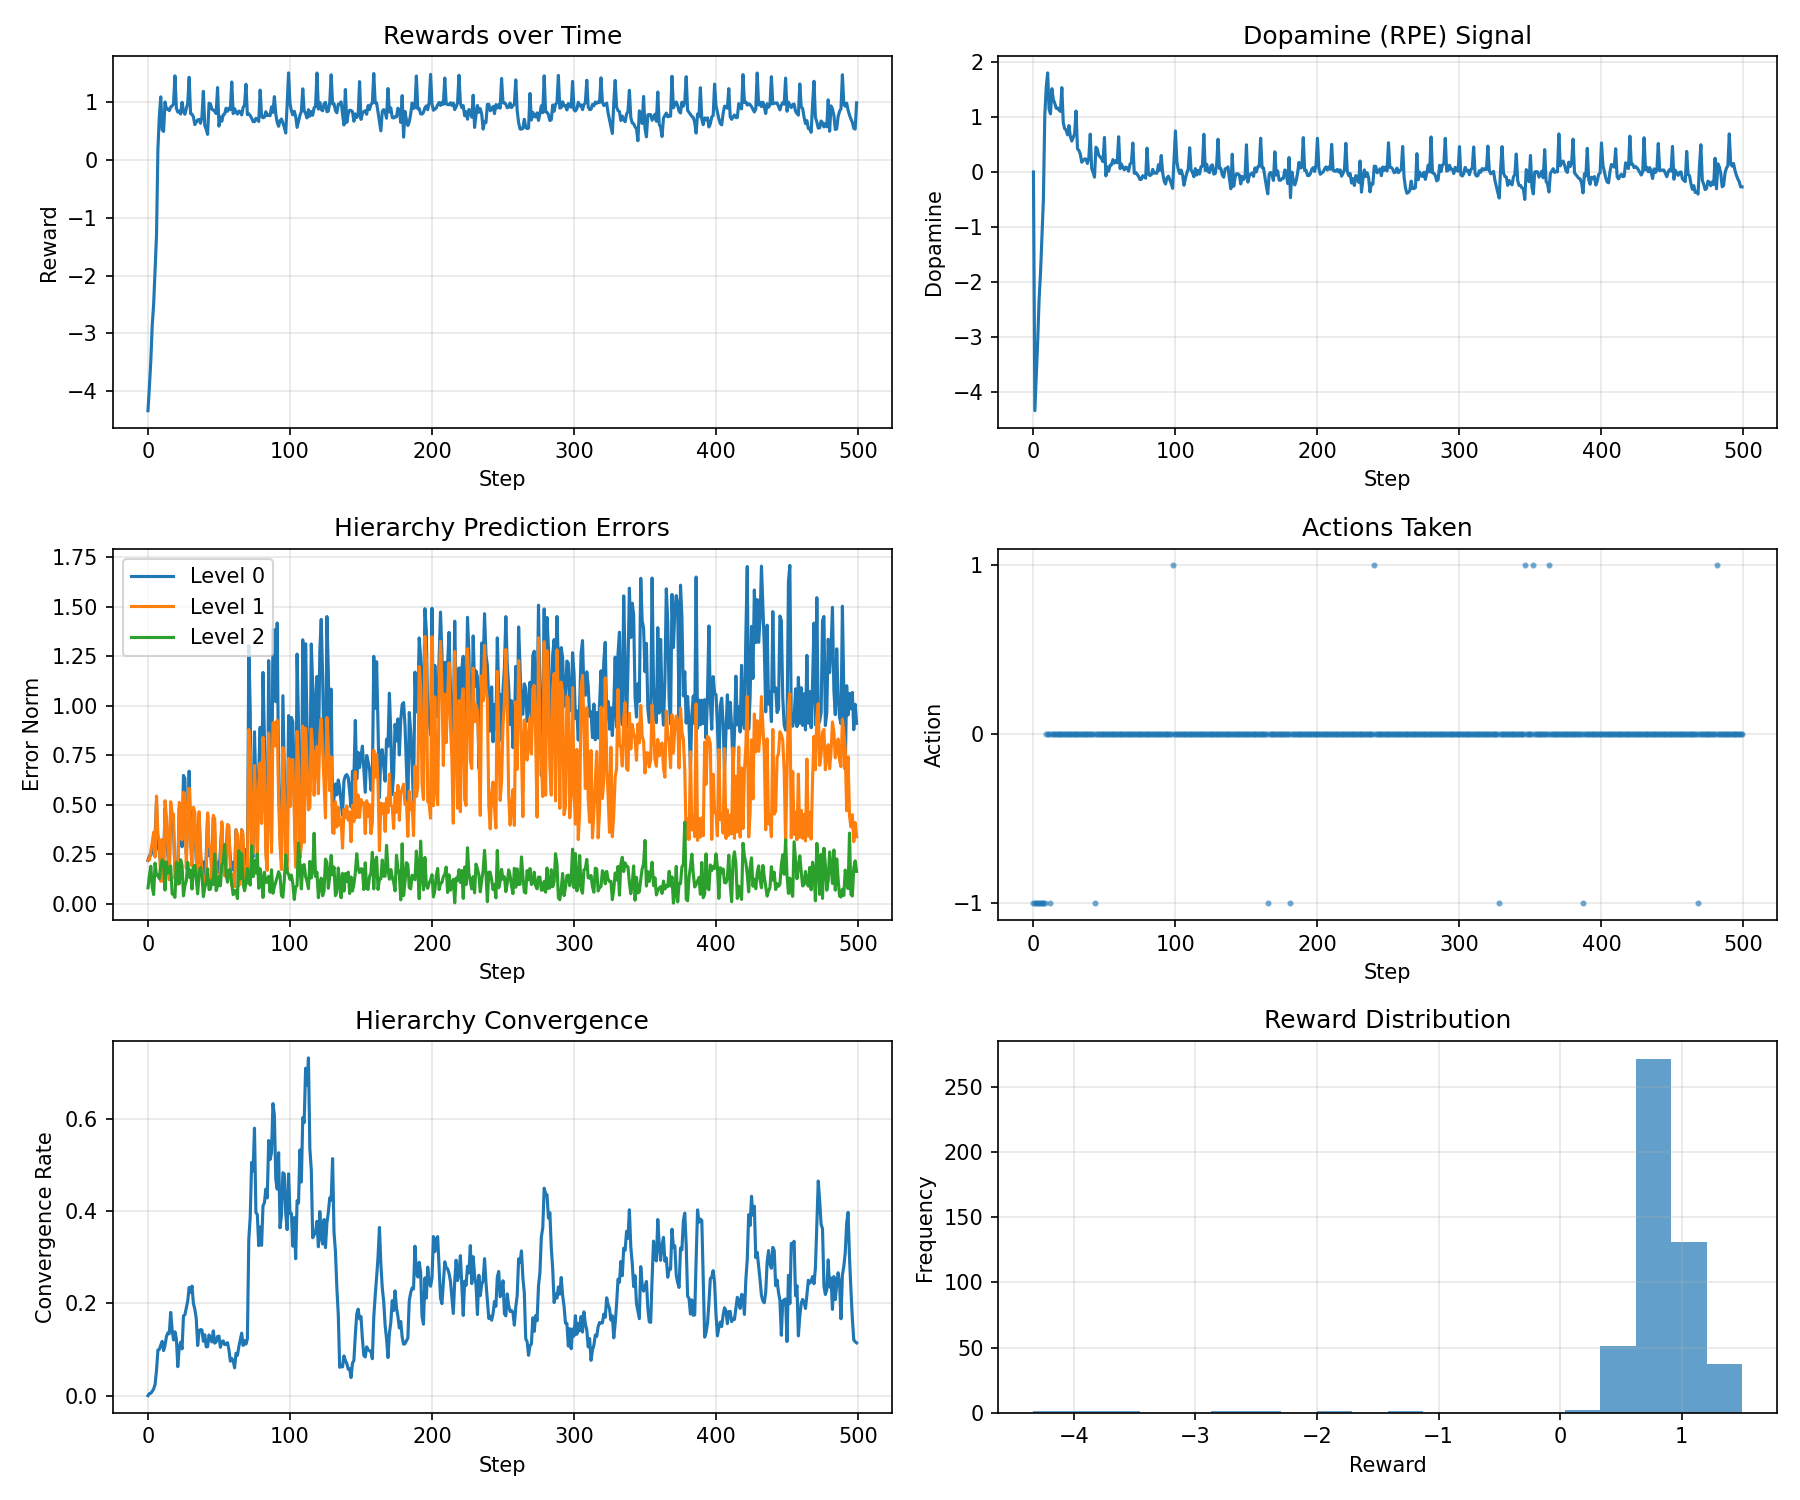
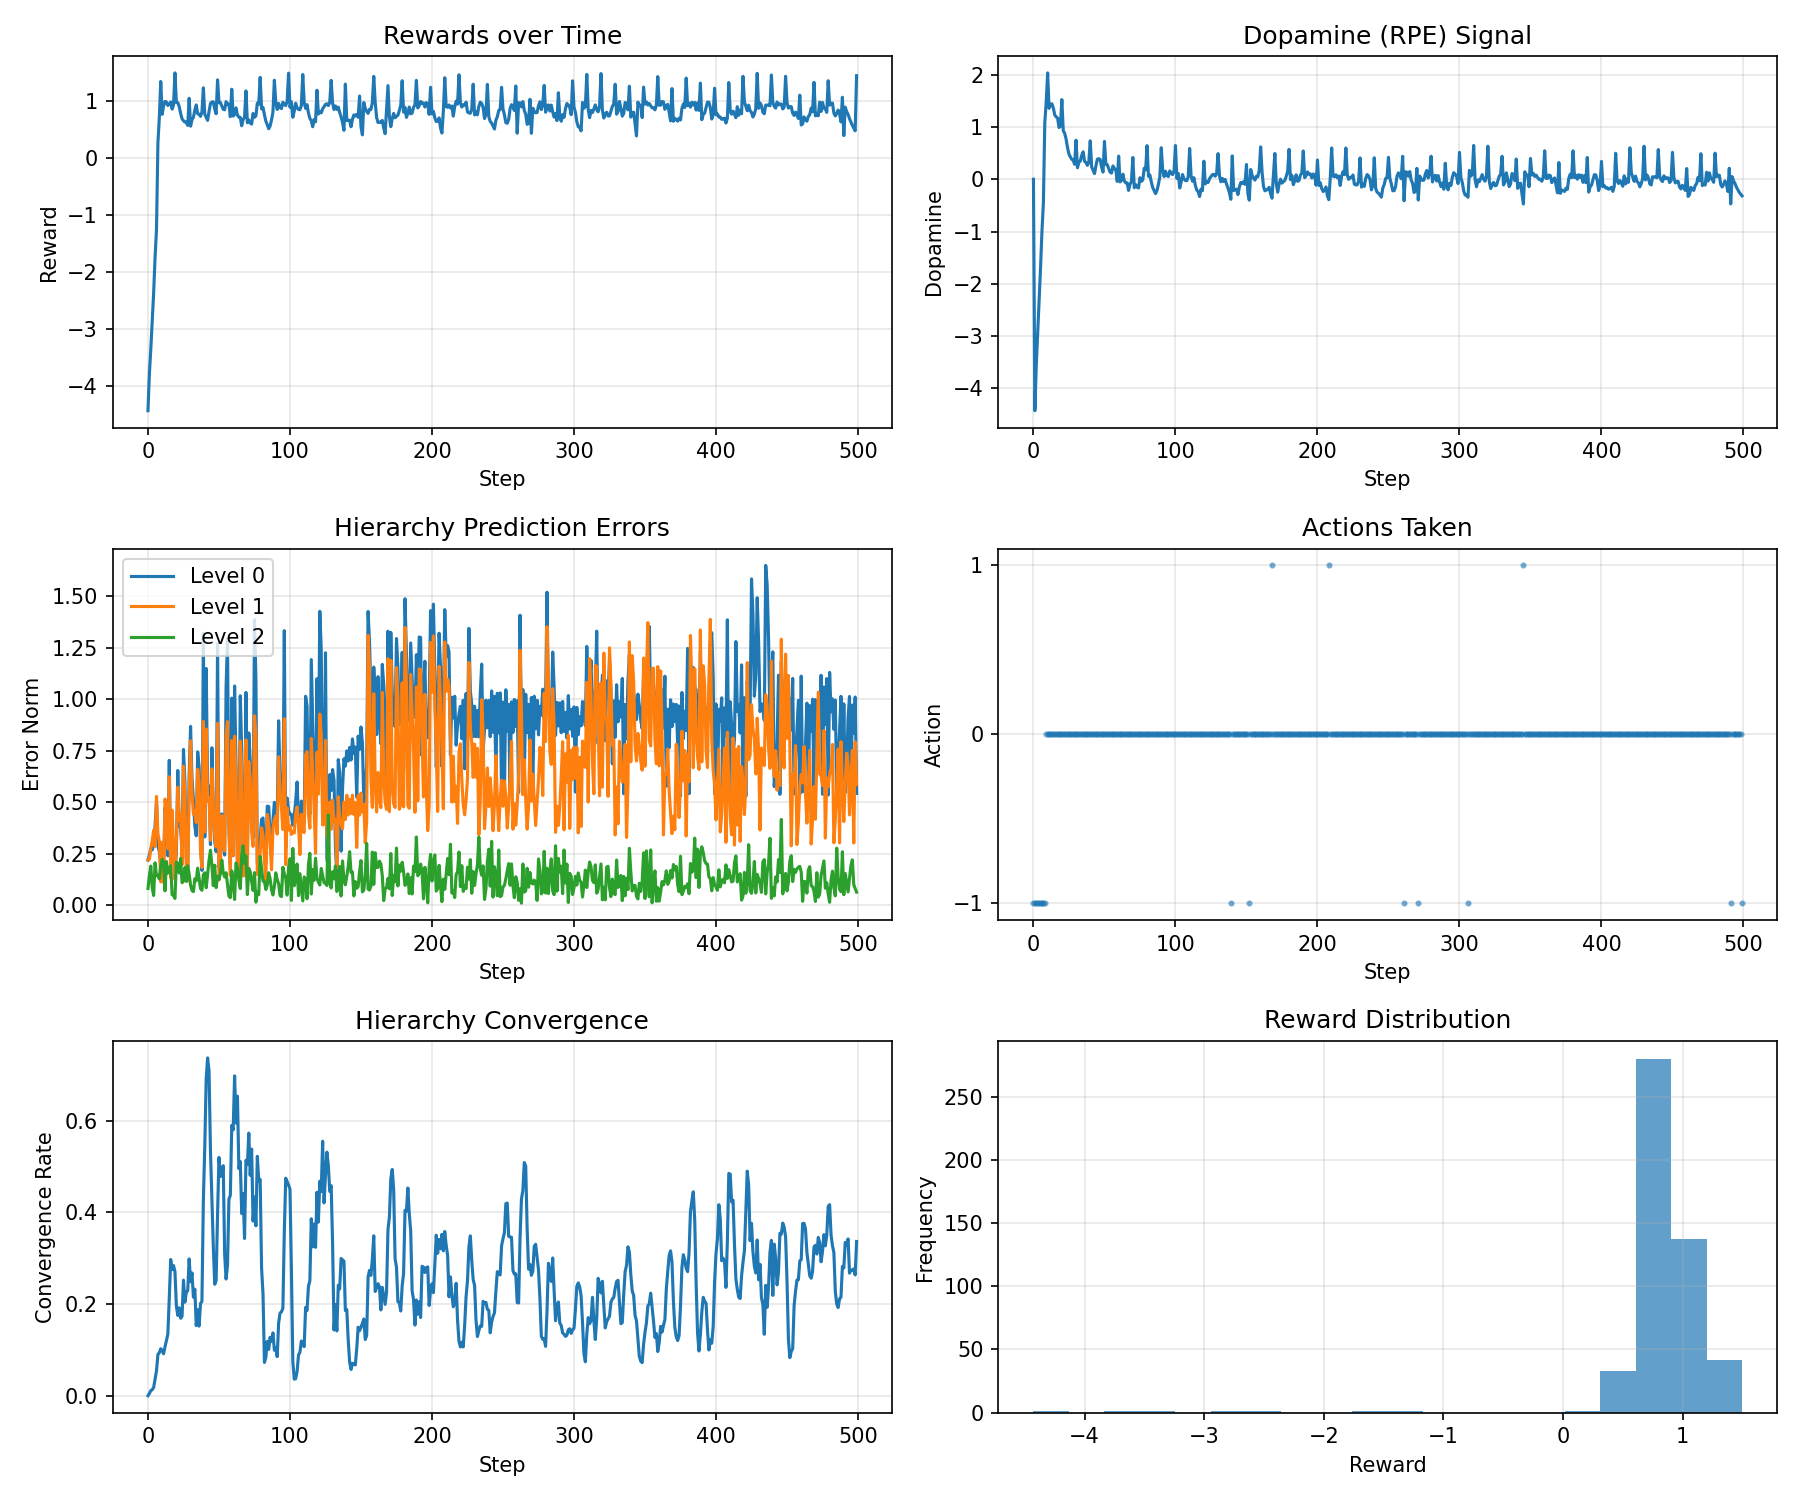
intergrated lifeform and fixed some errors in phase three

diff --git a/phase_three_integrated_life_loop.py b/phase_three_integrated_life_loop.py
@@ -9,7 +9,7 @@ from phase_two_rhythm_engine import RhythmEngine
 from phase_three_predictive_block import PredictiveBlock
 from phase_three_predictive_heiracy import PredictiveHierarchy
 from phase_three_predictive_heiracy_controller import HierarchicalController
-
+import datetime
 # Set default dtype to float32 for consistency
 torch.set_default_dtype(torch.float32)
 
@@ -293,7 +293,7 @@ def ensure_block_float32(block):
 
 def hierarchical_step(system: Dict, x: torch.Tensor, 
                      agent_action: int, step_counter: int,
-                     raw_reward: Optional[float] = None) -> Dict:
+                     prev_reward: Optional[float] = None) -> Dict:
     """
     Integrated hierarchical step with FIXED reward timing
     
@@ -315,47 +315,31 @@ def hierarchical_step(system: Dict, x: torch.Tensor,
     # Process PREVIOUS reward if available (for learning)
     bottom_cortex = system['cortices'][0]
     dopamine_signal = 0.0
-    
-    if raw_reward is not None:
-        dopamine_signal = bottom_cortex.process_reward(raw_reward)
-        # Store for debugging
-        bottom_cortex.last_raw_reward = raw_reward
-        bottom_cortex.last_reward = raw_reward
-        
-        # === DEBUGGING ADDED HERE ===
-        print(f"[HIERARCHY DEBUG] Raw reward: {raw_reward:.3f}, Dopamine: {dopamine_signal:.3f}, "
-              f"V: {bottom_cortex.reward_module.V:.3f}")
-        
-        # Also check if raw_reward is actually non-zero:
-        if raw_reward == 0.0:
-            print(f"[WARNING] Raw reward is 0.0 at step {step_counter}")
-            # Note: We can't access env.position here since env is outside this function
-            # We'll need to pass it or handle differently
-    else:
-        # No reward this step (first step or no reward yet)
-        print(f"[HIERARCHY DEBUG] Step {step_counter}: No previous reward to process")
-        print(f"[HIERARCHY DEBUG] V value: {bottom_cortex.reward_module.V:.3f}")
-    
-    # Get plasticity gate from rhythm
+    if prev_reward is not None:
+        dopamine_signal = bottom_cortex.process_reward(prev_reward)
+        # DEBUG
+        print(f"[REWARD TIMING] Step {step_counter}: "
+              f"Processing reward from previous action: {prev_reward:.3f} → "
+              f"Dopamine (RPE): {dopamine_signal:.3f}, "
+              f"V estimate: {bottom_cortex.reward_module.V:.3f}")
+           
+    # SET PLASTICITY GATE
     plasticity_gate = 1.0
     if rhythm and rhythm.theta_in_window():
         plasticity_gate = 1.3  # Enhanced plasticity during theta
         rhythm.tick()
     
     # HIERARCHICAL PREDICTIVE PROCESSING (learn from previous reward)
-    top_representation = hierarchy.step(
-        sensory_input=x,
-        delta_da=dopamine_signal,
-        plasticity_gate=plasticity_gate,
-        inference_iterations=2
-    )
+    top_representation = hierarchy.step(sensory_input=x,delta_da=dopamine_signal,plasticity_gate=plasticity_gate,inference_iterations=2)
     
     # ACTION GENERATION
     action_prior = controller.propose(top_representation)
     
-    # Blend agent policy with hierarchical prior
-    prior_weight = min(0.5, 0.1 + (step_counter / 1000) * 0.4)
-    
+    #BLEND AGENT POLICY (with hierarchical prior)
+    base_weight = 0.1
+    max_weight = 0.5
+    training_progress = min(1.0, step_counter / 1000.0)
+    prior_weight = base_weight + (max_weight - base_weight) * training_progress
     agent_action_tensor = torch.tensor([float(agent_action)], dtype=torch.float32)
     blended_action = (1 - prior_weight) * agent_action_tensor + prior_weight * action_prior[0]
     
@@ -375,9 +359,9 @@ def hierarchical_step(system: Dict, x: torch.Tensor,
               f"Final: {final_action}")
     
     # Controller learning from PREVIOUS outcome (if we had a reward)
-    if raw_reward is not None:
-        success = raw_reward > 0
-        controller.learn_from_outcome(raw_reward, success)
+    if prev_reward is not None:
+        success = prev_reward > 0
+        controller.learn_from_outcome(prev_reward, success)
         # Debug controller learning
         if step_counter % 20 == 0:
             controller_info = controller.get_debug_info()
@@ -405,12 +389,13 @@ def hierarchical_step(system: Dict, x: torch.Tensor,
         'action_prior': action_prior,
         'final_action': final_action,
         'dopamine_signal': dopamine_signal,
-        'raw_reward_processed': raw_reward if raw_reward is not None else 0.0,
+        'prev_reward_processed': prev_reward if prev_reward is not None else 0.0,
         'hierarchy_state': hierarchy_state,
         'hierarchy_stats': hierarchy_stats,
         'prior_weight': prior_weight,
         'blended_action': blended_action.item(),
-        'V_value': bottom_cortex.reward_module.V if hasattr(bottom_cortex, 'reward_module') else 0.0
+        'V_value': bottom_cortex.reward_module.V if hasattr(bottom_cortex, 'reward_module') else 0.0,
+        'theta_active': rhythm.theta_in_window() if rhythm else False
     }
 
 def run_comprehensive_test(num_steps: int = 500):
@@ -420,13 +405,7 @@ def run_comprehensive_test(num_steps: int = 500):
     print("=" * 80)
     
     # Create system
-    system = create_hierarchical_system(
-        input_size=10,
-        base_columns=4,  
-        hierarchy_factor=0.75,    
-        neurons_per_column=5
-    )
-    
+    system = create_hierarchical_system(input_size=10,base_columns=4,hierarchy_factor=0.75, neurons_per_column=5)
     # Create environment
     env = TestEnvironment(input_size=10)
     
@@ -458,8 +437,7 @@ def run_comprehensive_test(num_steps: int = 500):
             return 0
     
     # Main loop
-    prev_raw_reward = 0.0
-    prev_position = env.position 
+    reward_from_previous_action = None  # Initially no previous action
     for step in range(num_steps):
         # Get state
         x = env.get_state_vector()
@@ -468,29 +446,15 @@ def run_comprehensive_test(num_steps: int = 500):
         agent_action = agent_policy(env.position, env.goal)
         
         # Hierarchical step with PREVIOUS reward (from step-1)
-        result = hierarchical_step(system, x, agent_action, step, prev_raw_reward)
-        # Store previous position BEFORE taking action
-        prev_position = env.position
-        # Take action and get CURRENT reward
-        current_raw_reward = env.step(result['final_action'])
-
-        # === DEBUG ENVIRONMENT STATE ===
-        if step % 10 == 0:
-            distance = abs(env.position - env.goal)
-            print(f"[ENV DEBUG] Step {step}: "
-                f"Pos: {prev_position:.2f}→{env.position:.2f}, "
-                f"Goal: {env.goal}, "
-                f"Distance: {distance:.2f}, "
-                f"Reward: {current_raw_reward:.3f}, "
-                f"Action: {result['final_action']}")
-            
-        # Store for next iteration
-        prev_raw_reward = current_raw_reward
+        result = hierarchical_step(system, x, agent_action, step, prev_reward=reward_from_previous_action)
+        # Take action in environment and get CURRENT reward
+        current_reward = env.step(result['final_action'])
          # Update reward in system for episode recording
-        system['cortices'][0].last_reward = current_raw_reward
-        
+        system['cortices'][0].last_reward = current_reward
+         # ===== STORE FOR NEXT ITERATION =====
+        reward_from_previous_action = current_reward  # This becomes previous reward for next step
         # Collect statistics
-        stats['rewards'].append(current_raw_reward)  # Current reward
+        stats['rewards'].append(current_reward)  # Current reward
         stats['dopamine_signals'].append(result['dopamine_signal'])  # DA from previous
         stats['actions'].append(result['final_action'])
         stats['convergence'].append(result['hierarchy_state']['convergence'])
@@ -505,7 +469,7 @@ def run_comprehensive_test(num_steps: int = 500):
             hierarchy_state = result['hierarchy_state']
             print(f"Step {step:4d} | "
                   f"Pos: {env.position:6.2f} | "
-                  f"Reward: {current_raw_reward:6.2f} | "
+                  f"Reward: {current_reward:6.2f} | "
                   f"DA: {result['dopamine_signal']:6.3f} | "
                   f"Action: {result['final_action']:2d} | "
                   f"Hierarchy errors: {[f'{e:.3f}' for e in hierarchy_state['errors']]}")
@@ -660,12 +624,14 @@ def plot_results(stats, num_levels):
     axes[2, 1].grid(True, alpha=0.3)
     
     plt.tight_layout()
-    plt.savefig('phase_three_results.png', dpi=150)
+    timestamp=datetime.datetime.now().strftime("%Y%m%d_%H%M%S")
+    file= f'graphs/phase_three_results_{timestamp}.png'
+    plt.savefig(file, dpi=150)
     plt.show()
 
 if __name__ == "__main__":
     # Run comprehensive test
-    stats, system = run_comprehensive_test(num_steps=500)
+    stats, system = run_comprehensive_test(num_steps=1000)
     
     # Additional debugging information
     print(f"\n" + "=" * 80)

diff --git a/phase_three_debugger.py b/phase_three_debugger.py
@@ -1,0 +1,30 @@
+import datetime
+class DebugLogger:
+    def __init__(self, enabled=True, log_level='INFO'):
+        self.enabled = enabled
+        self.log_level = log_level
+        self.levels = {'DEBUG': 0, 'INFO': 1, 'WARNING': 2, 'ERROR': 3}
+        self.current_level = self.levels.get(log_level, 1)
+        self.log_history = []
+        
+    def log(self, message, level='INFO', module=''):
+        if not self.enabled:
+            return
+            
+        if self.levels.get(level, 1) >= self.current_level:
+            timestamp = datetime.datetime.now().strftime("%H:%M:%S.%f")[:-3]
+            log_entry = f"[{timestamp}] [{level:7s}] [{module:20s}] {message}"
+            print(log_entry)
+            self.log_history.append(log_entry)
+            
+            # Keep history bounded
+            if len(self.log_history) > 1000:
+                self.log_history.pop(0)
+    
+    def save_logs(self, filename='debug_log.txt'):
+        with open(filename, 'w') as f:
+            for entry in self.log_history:
+                f.write(entry + '\n')
+
+# Create global logger
+logger = DebugLogger(enabled=True, log_level='INFO')

diff --git a/phase_two_last.py b/phase_two_last.py
@@ -93,7 +93,7 @@ class EpisodeBuffer:
         self.buffer: List[Episode] = []
         self.next_id = 0
         
-    def add_episode(self, episode: Episode) -> bool:
+    def add_episode(self, episode: Episode,threshold: float = 1.5) -> bool:
         """Add episode, return True if needs immediate replay"""
         episode.id = self.next_id
         self.next_id += 1
@@ -101,9 +101,15 @@ class EpisodeBuffer:
         # Evict if over capacity
         if len(self.buffer) > self.capacity:
             self._evict_lowest_priority()  
+        #Use provided threshold (from cortex) or default    
         # Immediate replay if priority > threshold
-        return episode.priority > 1.5
-        
+        needs_immediate=episode.priority > threshold
+         # DEBUG LOGGING
+        if needs_immediate:
+            print(f"[MEMORY] Episode {episode.id} triggered immediate replay: "
+                f"priority={episode.priority:.3f} > threshold={threshold:.3f}") 
+        return needs_immediate
+            
     def _evict_lowest_priority(self):
         """Remove episode with lowest priority"""
         if not self.buffer:

diff --git a/phase_three_predictive_block.py b/phase_three_predictive_block.py
@@ -3,8 +3,7 @@ from typing import Optional
 from phase_two_attractor_cotex import AttractorCortex 
 
 class PredictiveBlock:
-    def __init__(self, base_cortex: AttractorCortex, dim_rep: int,
-                 gen_init_scale: float = 0.05, rec_init_scale: float = 0.05,
+    def __init__(self, base_cortex: AttractorCortex, dim_rep: int,gen_init_scale: float = 0.05, rec_init_scale: float = 0.05,
                  kappa: float = 0.2,           # Inference step size
                  alpha_G: float = 1e-3,        # Generative learning rate
                  alpha_R: float = 1e-3,        # Recognition learning rate
@@ -65,6 +64,7 @@ class PredictiveBlock:
         # Ensure Pi dimension matches dim_rep
         if self.Pi.shape[0] != self.dim:
             self.Pi = torch.ones(self.dim, dtype=torch.float32) * precision_init
+            
         
     def normalize_weights(self):
         """Normalize weights for stability"""

diff --git a/phase_two_attractor_cotex.py b/phase_two_attractor_cotex.py
@@ -238,7 +238,7 @@ class AttractorCortex(CorticalBlock):  # Extend CorticalBlock
         # Finalize episode
         self.current_episode.finalize(current_time=self.global_timestep) 
         # Add to buffer
-        needs_immediate = self.episode_buffer.add_episode(self.current_episode)
+        needs_immediate = self.episode_buffer.add_episode(self.current_episode,threshold=self.immediate_replay_threshold)
         # Immediate replay if needed
         if needs_immediate:
             self._execute_immediate_replay(self.current_episode)      
